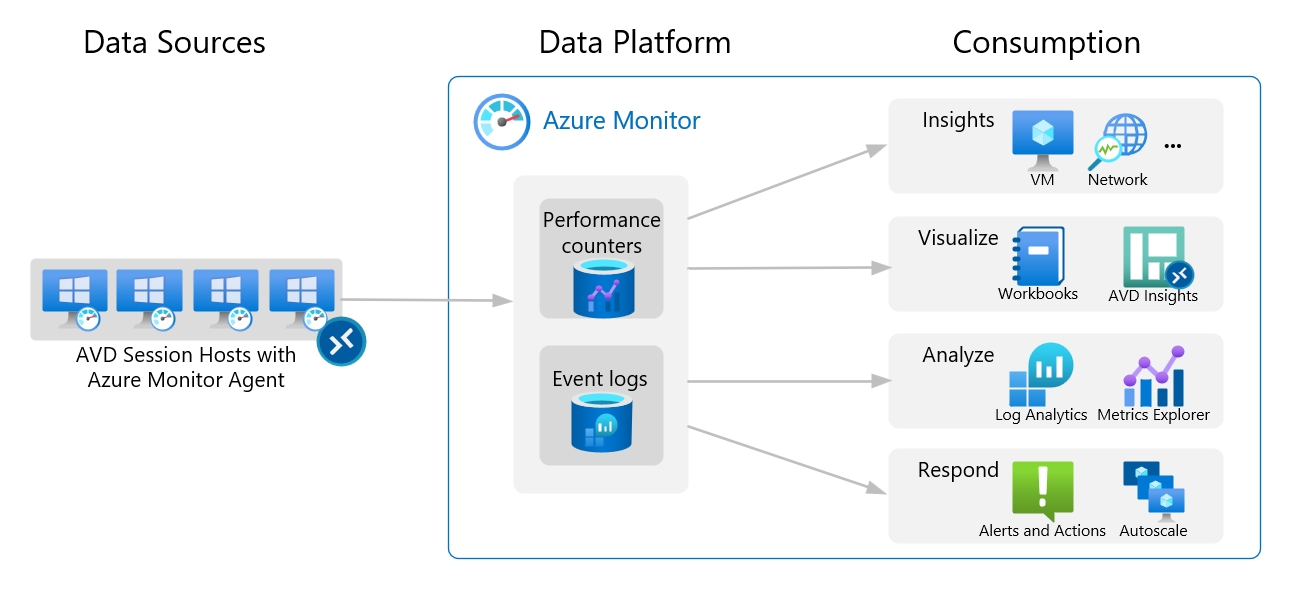
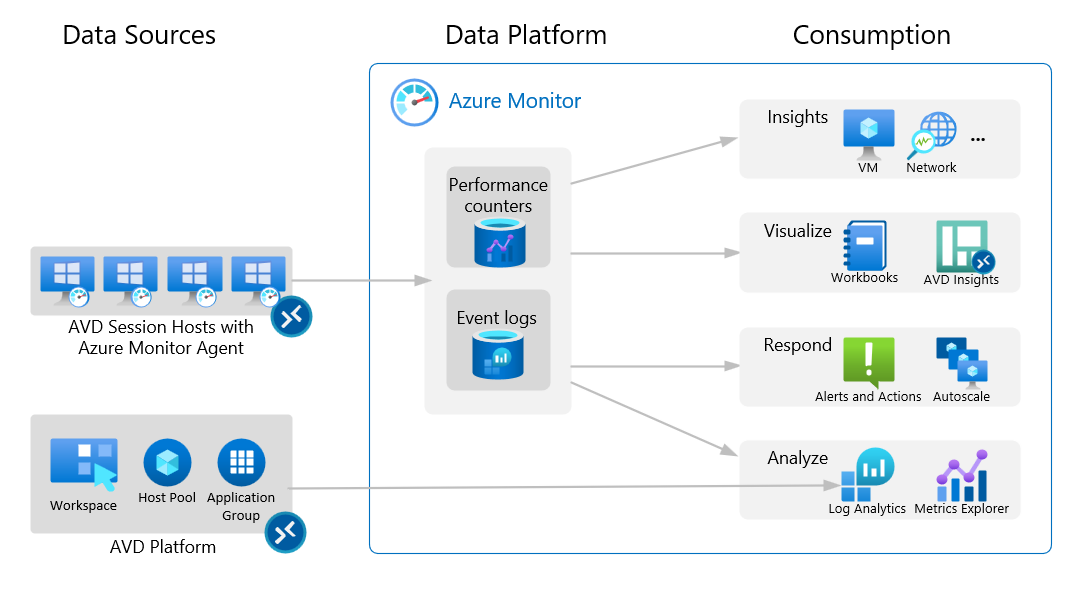
updated 2023-08-30-AVDxAMA.md

diff --git a/_posts/_draft/2023-08-30-AVDxAMA.md b/_posts/_draft/2023-08-30-AVDxAMA.md
@@ -21,7 +21,7 @@ tags: [AVD,Azure Monitor,Azure]
 
 The current AVD Insights are based on Azure Log Analytics workspaces that use multiple agents such as Monitoring Dependency Agent or Microsoft Monitoring Agent (MMA) to collect monitoring data from session hosts. 
 
-AVD Insights visualizes these log entries and performance data in charts and tables. The idea behind it is to improve troubleshooting to solve problems faster and get a complete overview of the entire AVD environment. You can also create some report exports to discuss usage with the management level. 
+AVD Insights visualizes these AVD platform log entries, session hosts event logs and performance data in charts and tables. The idea behind it is to improve troubleshooting to solve problems faster and get a complete overview of the entire AVD environment. You can also create some report exports to discuss usage with the management level. 
 
 Two years ago, on 19 August 2021, we announced we were retiring the Log Analytics Agent (MMA & Co) to simplify everything to one agent, the Azure Monitor Agent (AMA). Because of this, we need to move all virtual machines to Azure Monitor Agent by 31 August 2024, which includes Azure Virtual Desktop Session Hosts and AVD Insights.
 
@@ -43,11 +43,11 @@ Azure Monitor Agent serves as a bridge between AVD deployments and Azure Monitor
 
 Azure Monitor Agent uses data collection rules that allow you to specify the specific data you want each agent to collect. These rules allow you to comprehensively manage data collection settings and create different, customized configurations for specific groups of machines. It is possible to specify rules that route data from numerous machines to multiple destinations across regions and tenants.
 
-The following diagram shows the Azure Monitor with AVD:
+The following diagram shows the AVD Insights with Azure Monitor:
 
 ![This image shows Azure Monitor with AVD](/assets/img/2023-08-31/2023-08-31-100.png)
 
-Regarding AVD, it will gather Windows Event Logs, such as FSLogix logs, along with Performance Counters like Processor Information, Memory, or Terminal Services.
+Related to AVD, Windows event logs, such as FSLogix logs, are captured from session hosts along with performance counters such as processor information, memory, or terminal services. Additionally, some information comes from the AVD platform itself, e.g. AVD Errors or NetworkData logs, which are sent to the Log Analytics Workspace.
 
 If you want to understand the differences between Azure Monitor Agent and Legacy Agents, please follow this link: [Compare to legacy agents](https://learn.microsoft.com/en-us/azure/azure-monitor/agents/agents-overview#compare-to-legacy-agents)
 
